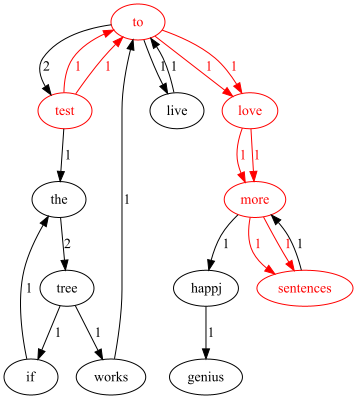
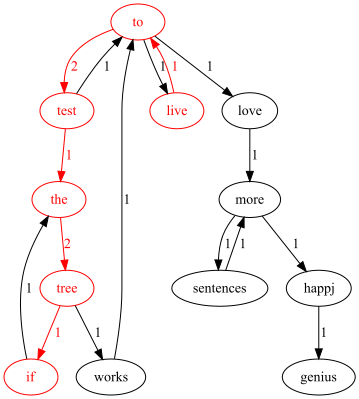
already

diff --git a/src/main/java/org/example/graphDrawer.java b/src/main/java/org/example/graphDrawer.java
@@ -28,33 +28,50 @@ public class graphDrawer {
 
         return dot.toString();
     }
-    public String generateHighLightGraph(nodeList fileNodes, List<edge> edgePath) {
+    public String generateHighLightGraph(nodeList fileNodes,List<node> path, List<edge> edgePath) {
         StringBuilder dot = new StringBuilder();
         dot.append("digraph G {\n");
 
-        for (node Node : fileNodes.returnAllNode()) {
-            dot.append("\t").append(Node.name).append(";\n");
-
-            for (edge Edge : Node.childlist) {
-                String edgeColor = ""; // Color for the edge
-                if (edgePath.contains(Edge)) {
-                    edgeColor = "[color=red, fontcolor=red]";
-                }
-                dot.append("\t").append(Node.name).append(" -> ").append(Edge.childNode.name)
-                        .append(" [label=\"").append(Edge.weight).append("\"]")
-                        .append(edgeColor).append(";\n");
+        for (node Node : fileNodes.returnAllNode()){
+            if(path.contains(Node)){
+                dot.append("\t").append(Node.name).append(" [color=red, fontcolor=red];\n");
             }
-        }
+            else{
+                dot.append("\t").append(Node.name).append(";\n");
+            }
+            edge find_edge  = find_edge_in_list(edgePath, Node);
+            if(find_edge!=null){
+                for (edge Edge : Node.childlist){
+                    if(Edge.childNode == find_edge.childNode){
+                        dot.append("\t").append(Node.name).append(" -> ").append(Edge.childNode.name)
+                                .append(" [label=\"").append(Edge.weight).append("\", color=red, fontcolor=red];\n");
+                    }
+                    else{
+                        dot.append("\t").append(Node.name).append(" -> ").append(Edge.childNode.name)
+                                .append(" [label=\"").append(Edge.weight).append("\"];\n");
+                    }
 
-        for (edge Edge : edgePath) {
-            dot.append("\t").append(Edge.fatherNode.name).append(" [color=red, fontcolor=red];\n");
-            dot.append("\t").append(Edge.childNode.name).append(" [color=red, fontcolor=red];\n");
-            dot.append("\t").append(Edge.fatherNode.name).append(" -> ").append(Edge.childNode.name)
-                    .append(" [label=\"").append(Edge.weight).append("\", color=red, fontcolor=red];\n");
+                }
+            }
+            else{
+                for (edge Edge : Node.childlist){
+                    dot.append("\t").append(Node.name).append(" -> ").append(Edge.childNode.name)
+                            .append(" [label=\"").append(Edge.weight).append("\"];\n");
+                }
+            }
         }
 
         dot.append("}\n");
         return dot.toString();
+    }
+
+    public edge find_edge_in_list(List<edge> edgeList, node Node){
+        for (edge Edge : edgeList){
+            if (Edge.fatherNode == Node){
+                return Edge;
+            }
+        }
+        return null;
     }
 
     public void drawDirectedGraph(nodeList fileNodes, String fileName) throws IOException {
@@ -67,9 +84,9 @@ public class graphDrawer {
         displayImage(outputFile);
 
     }
-    public void drawHighlightGraph(nodeList fileNodes,List<edge> highlightPath, String fileName) throws IOException {
+    public void drawHighlightGraph(nodeList fileNodes,List<node> path,List<edge> highlightPath, String fileName) throws IOException {
 
-        String dotSource = generateHighLightGraph(fileNodes,highlightPath);
+        String dotSource = generateHighLightGraph(fileNodes,path,highlightPath);
 
         Graphviz graphviz = Graphviz.fromString(dotSource);
         File outputFile = new File(fileName);

diff --git a/src/main/java/org/example/Main.java b/src/main/java/org/example/Main.java
@@ -136,7 +136,7 @@ public class Main {
             graphDrawer lightedGraph = new graphDrawer();
             if (word_5.length == 2){
                 pathCalc.PathResult pathResult = pathcalc.calcShortestPath(word_5[0], word_5[1],nodelist);
-                lightedGraph.drawHighlightGraph(nodelist, pathResult.pathEdge,"h_graph.png");
+                lightedGraph.drawHighlightGraph(nodelist, pathResult.path,pathResult.pathEdge,"h_graph.png");
                 System.out.println("The shortest distance between " + word_5[0] + " and " + word_5[1] + " is "+ pathResult.length);
 
             } else if (word_5.length == 1) {
